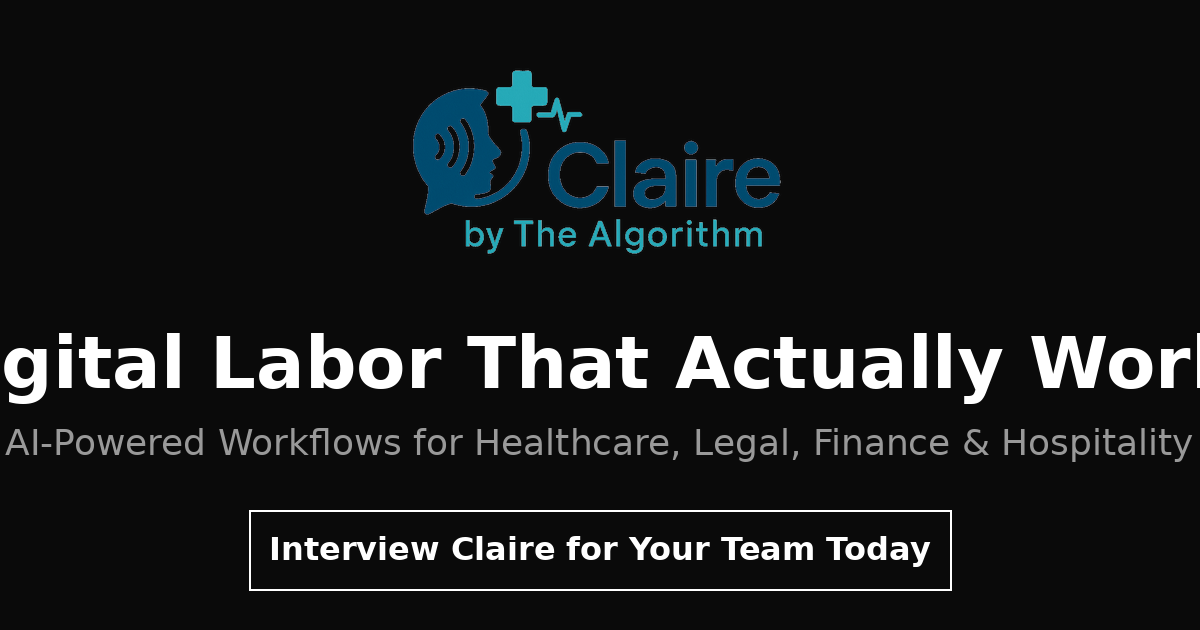
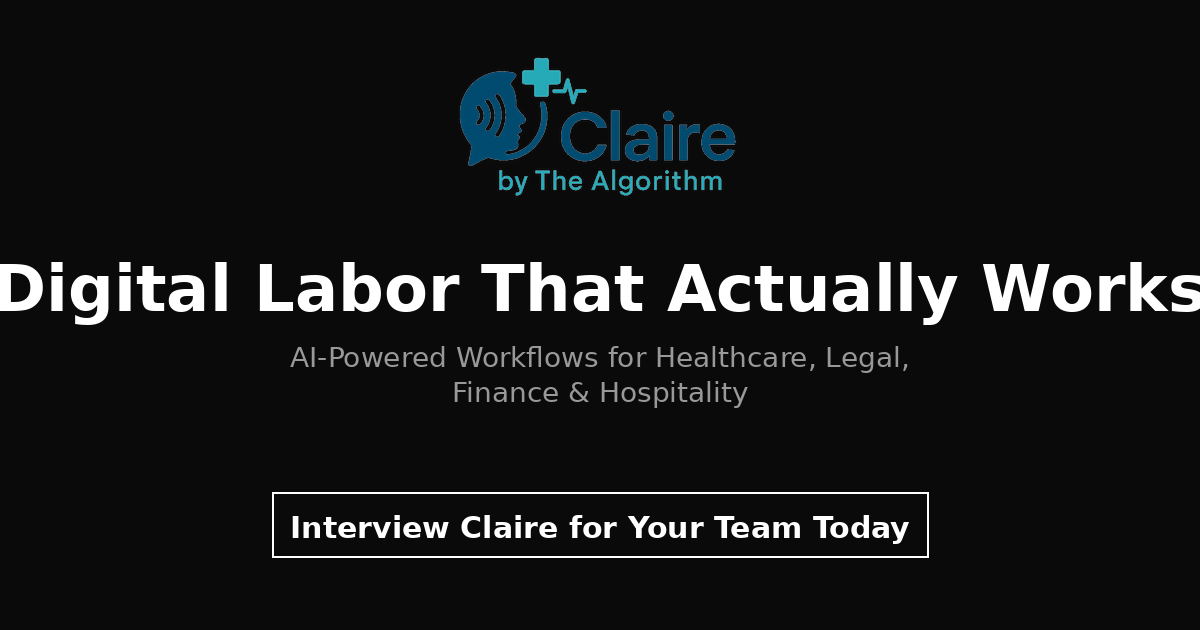
Improve OG image layout to prevent text cutoff
- Reduce font sizes for better fit (title: 72->64, subtitle: 36->28)
- Smaller logo (400->300px) for better proportion
- Split subtitle into two lines for readability
- Adjust spacing to ensure full headline is visible
- Fix CTA box sizing to use actual text height

Changed region(s): [[0.0, 0.0905, 1.0, 0.7238], [0.2158, 0.754, 0.8017, 0.9048], [0.2158, 0.9349, 0.7708, 0.9651]]

diff --git a/generate_og_image.py b/generate_og_image.py
@@ -10,10 +10,10 @@ draw = ImageDraw.Draw(img)
 
 # Try to use a system font, fallback to default
 try:
-    # Try common system fonts
-    title_font = ImageFont.truetype("/usr/share/fonts/truetype/dejavu/DejaVuSans-Bold.ttf", 72)
-    subtitle_font = ImageFont.truetype("/usr/share/fonts/truetype/dejavu/DejaVuSans.ttf", 36)
-    cta_font = ImageFont.truetype("/usr/share/fonts/truetype/dejavu/DejaVuSans-Bold.ttf", 32)
+    # Try common system fonts - reduced sizes for better fit
+    title_font = ImageFont.truetype("/usr/share/fonts/truetype/dejavu/DejaVuSans-Bold.ttf", 64)
+    subtitle_font = ImageFont.truetype("/usr/share/fonts/truetype/dejavu/DejaVuSans.ttf", 28)
+    cta_font = ImageFont.truetype("/usr/share/fonts/truetype/dejavu/DejaVuSans-Bold.ttf", 30)
 except:
     # Fallback to default font with larger size
     title_font = ImageFont.load_default()
@@ -24,18 +24,18 @@ except:
 logo_path = "/home/user/Claire/assets/claire-logo.png"
 if os.path.exists(logo_path):
     logo = Image.open(logo_path)
-    # Resize logo to fit nicely (max width 400px)
-    logo_width = 400
+    # Resize logo to fit nicely (smaller - 300px)
+    logo_width = 300
     logo_height = int(logo.height * (logo_width / logo.width))
     logo = logo.resize((logo_width, logo_height), Image.Resampling.LANCZOS)
 
     # Place logo at top center
     logo_x = (width - logo_width) // 2
-    logo_y = 60
+    logo_y = 50
     img.paste(logo, (logo_x, logo_y), logo)
 
     # Position text below logo
-    text_start_y = logo_y + logo_height + 60
+    text_start_y = logo_y + logo_height + 50
 else:
     # If no logo, start text higher
     text_start_y = 150
@@ -48,26 +48,33 @@ text_width = bbox[2] - bbox[0]
 text_x = (width - text_width) // 2
 draw.text((text_x, text_start_y), headline, fill='#ffffff', font=title_font)
 
-# Subtitle
-subtitle = "AI-Powered Workflows for Healthcare, Legal, Finance & Hospitality"
-bbox = draw.textbbox((0, 0), subtitle, font=subtitle_font)
+# Subtitle - split into two lines for better fit
+subtitle_line1 = "AI-Powered Workflows for Healthcare, Legal,"
+subtitle_line2 = "Finance & Hospitality"
+bbox = draw.textbbox((0, 0), subtitle_line1, font=subtitle_font)
 text_width = bbox[2] - bbox[0]
 text_x = (width - text_width) // 2
-draw.text((text_x, text_start_y + 100), subtitle, fill='#999999', font=subtitle_font)
+draw.text((text_x, text_start_y + 90), subtitle_line1, fill='#999999', font=subtitle_font)
+
+bbox = draw.textbbox((0, 0), subtitle_line2, font=subtitle_font)
+text_width = bbox[2] - bbox[0]
+text_x = (width - text_width) // 2
+draw.text((text_x, text_start_y + 125), subtitle_line2, fill='#999999', font=subtitle_font)
 
 # Call to action
 cta = "Interview Claire for Your Team Today"
 bbox = draw.textbbox((0, 0), cta, font=cta_font)
 text_width = bbox[2] - bbox[0]
+text_height = bbox[3] - bbox[1]
 text_x = (width - text_width) // 2
-cta_y = height - 100
+cta_y = height - 120
 
 # Draw CTA box
-padding = 20
+padding = 18
 box_x1 = text_x - padding
 box_y1 = cta_y - padding
 box_x2 = text_x + text_width + padding
-box_y2 = cta_y + 40 + padding
+box_y2 = cta_y + text_height + padding
 draw.rectangle([box_x1, box_y1, box_x2, box_y2], outline='#ffffff', width=2)
 draw.text((text_x, cta_y), cta, fill='#ffffff', font=cta_font)
 
